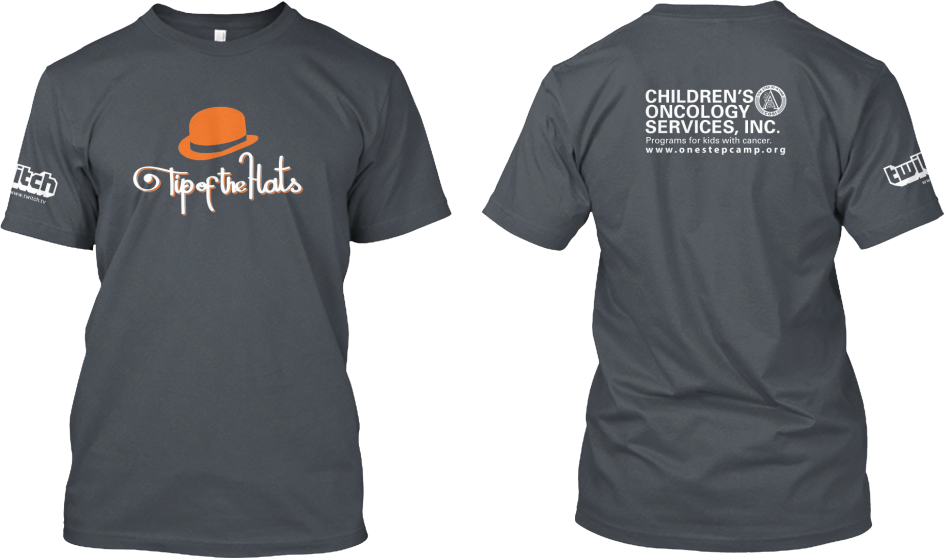
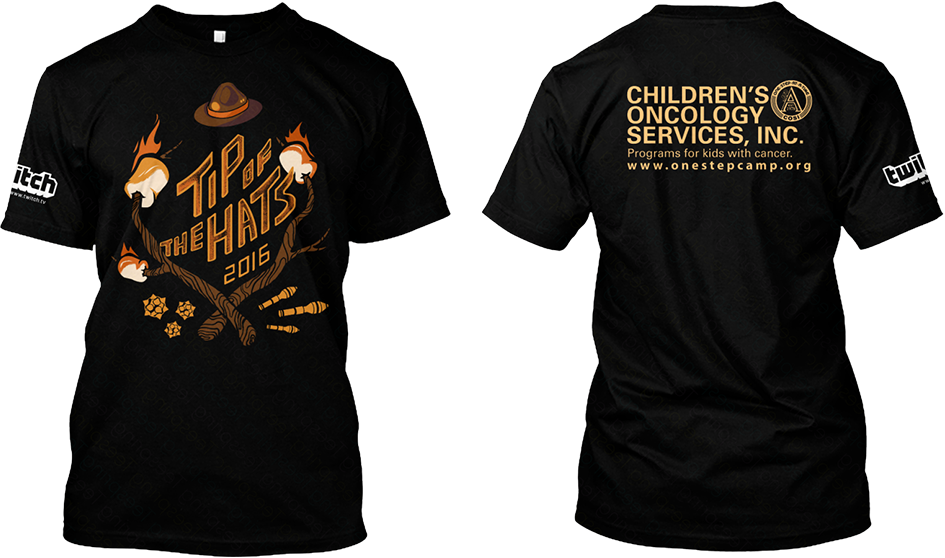
toth-brb: update teespring info

diff --git a/graphics/elements/toth-brb/toth-brb.html b/graphics/elements/toth-brb/toth-brb.html
@@ -70,7 +70,7 @@
 
                 <div class="layout vertical center" style="margin-left: 75px;">
                     <iron-image sizing="contain" preload fade src="img/shirt.png"></iron-image>
-                    <h3 class="lightTextShadow">teespring.com/toth2015</h3>
+                    <h3 class="lightTextShadow">teespring.com/toth2016</h3>
                 </div>
             </div>
         </div>
